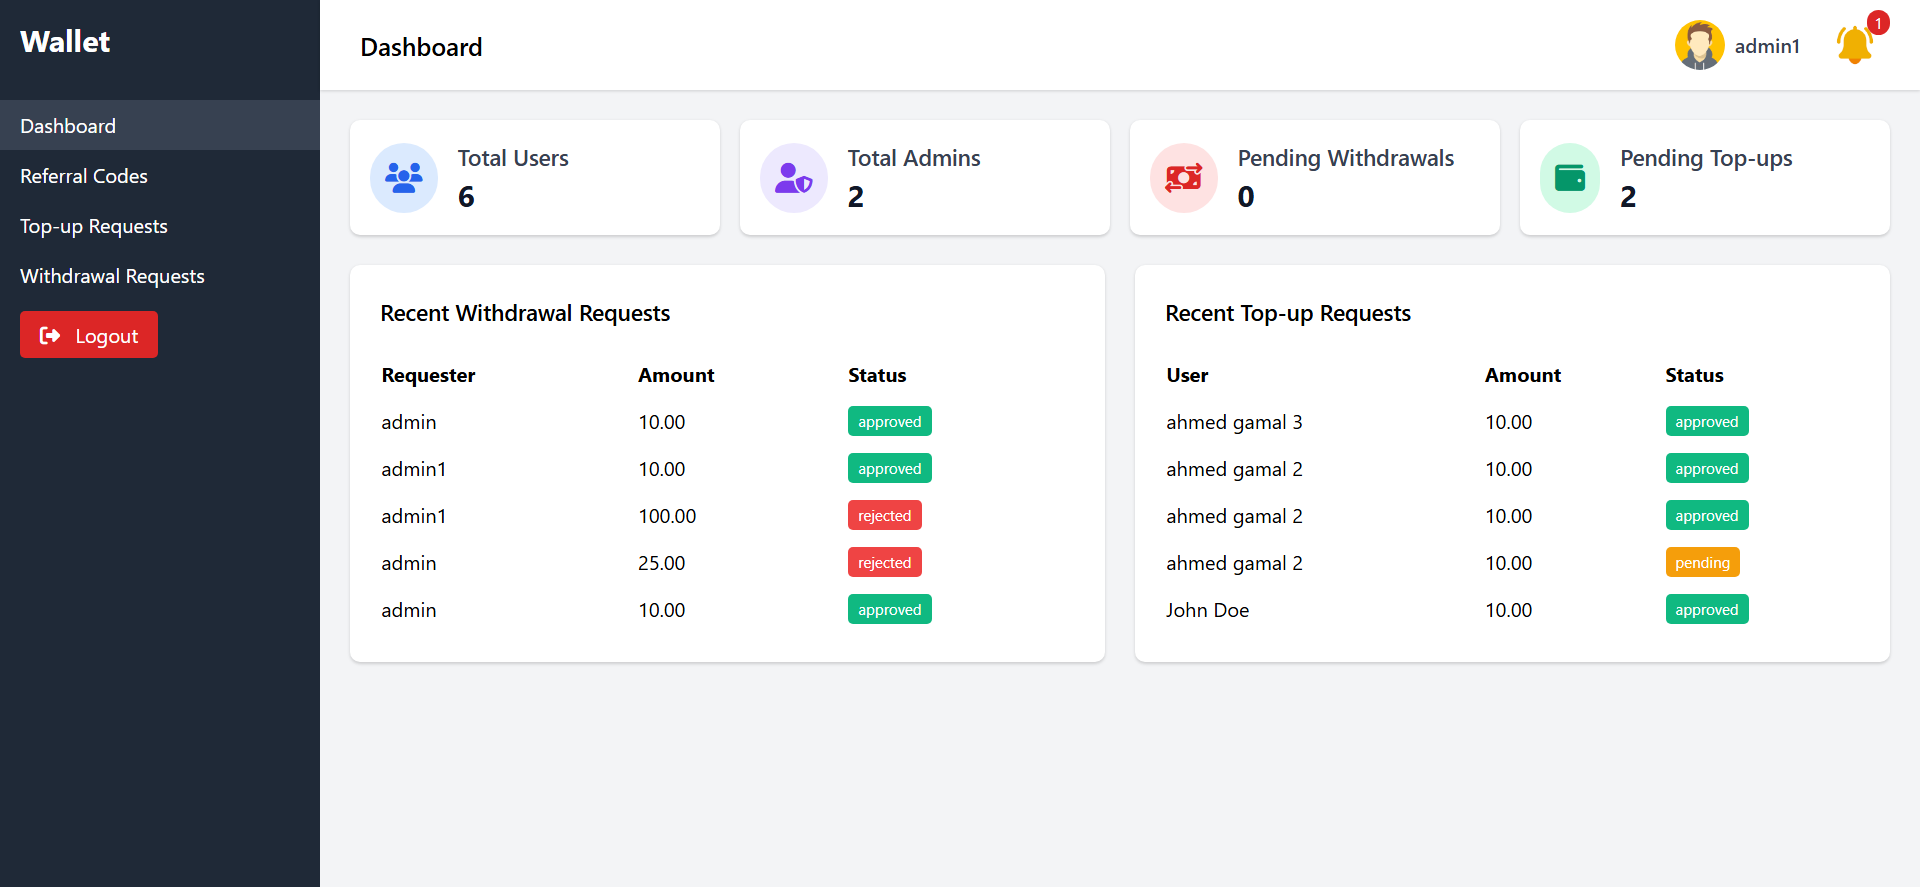
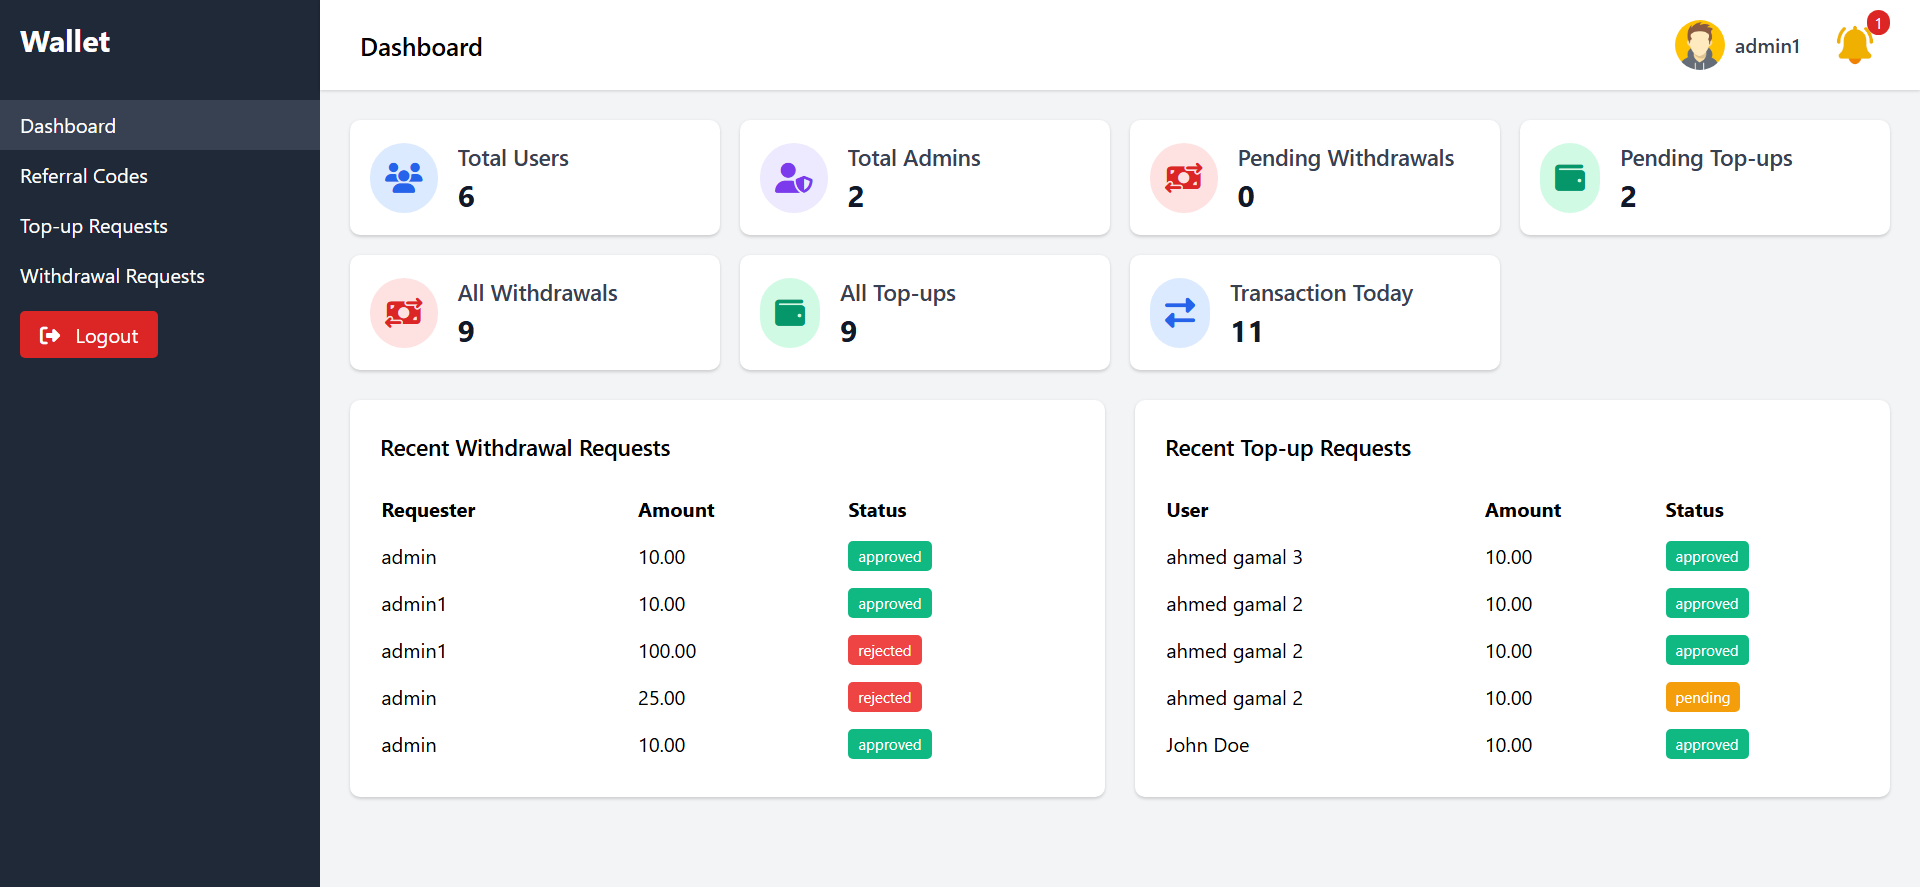
update dashboard

diff --git a/resources/views/admin/dashboard.blade.php b/resources/views/admin/dashboard.blade.php
@@ -86,6 +86,37 @@
             <p class="text-2xl font-bold text-gray-900">{{ $stats['pending_topups'] }}</p>
         </div>
     </div>
+
+    <div class="bg-white p-4 rounded-lg shadow flex items-center">
+        <div class="p-3 rounded-full bg-red-100 text-red-600 mr-4">
+            <i class="fa-solid fa-money-bill-transfer text-2xl"></i>
+        </div>
+        <div>
+            <h3 class="text-lg font-semibold text-gray-700">All Withdrawals</h3>
+            <p class="text-2xl font-bold text-gray-900">{{ $stats['withdrawals'] }}</p>
+        </div>
+    </div>
+
+    <!-- Pending Top-ups -->
+    <div class="bg-white p-4 rounded-lg shadow flex items-center">
+        <div class="p-3 rounded-full bg-green-100 text-green-600 mr-4">
+            <i class="fa-solid fa-wallet text-2xl"></i>
+        </div>
+        <div>
+            <h3 class="text-lg font-semibold text-gray-700">All Top-ups</h3>
+            <p class="text-2xl font-bold text-gray-900">{{ $stats['topups'] }}</p>
+        </div>
+    </div>
+
+    <div class="bg-white p-4 rounded-lg shadow flex items-center">
+        <div class="p-3 rounded-full bg-blue-100 text-blue-600 mr-4">
+            <i class="fa-solid fa-exchange-alt text-2xl"></i>
+        </div>
+        <div>
+            <h3 class="text-lg font-semibold text-gray-700">Transaction Today</h3>
+            <p class="text-2xl font-bold text-gray-900">{{ $stats['total_transactions_today'] }}</p>
+        </div>
+    </div>
 </div>
 
 

diff --git a/app/Http/Controllers/Admin/DashboardController.php b/app/Http/Controllers/Admin/DashboardController.php
@@ -22,6 +22,8 @@ class DashboardController extends Controller
             'total_admins' => Admin::count(),
             'pending_withdrawals' => WithdrawalRequest::where('status', 'pending')->count(),
             'pending_topups' => TopupRequest::where('status', 'pending')->count(),
+            'withdrawals' => TopupRequest::count(),
+            'topups' => TopupRequest::count(),
             'total_transactions_today' => Transaction::whereDate('created_at', today())->count(),
         ];
 
@@ -35,10 +37,7 @@ class DashboardController extends Controller
             ->take(5)
             ->get();
 
-        // Get notifications for the authenticated admin
-        $notifications = $admin->notifications()->latest()->take(10)->get();
-
-        return view('admin.dashboard', compact('stats', 'recentWithdrawals', 'recentTopups', 'notifications'));
+        return view('admin.dashboard', compact('stats', 'recentWithdrawals', 'recentTopups'));
     }
 
     public function markNotificationAsRead(Request $request, $id)

diff --git a/app/Services/PermissionService.php b/app/Services/PermissionService.php
@@ -8,13 +8,17 @@ use App\Models\Permission;
 class PermissionService
 {
     const PERMISSIONS = [
+        "can_create_withdrawals" => "Can Create withdrawal",
+        "can_view_withdrawals" => "Can View withdrawal",
         'can_accept_withdrawals' => 'Can accept withdrawal requests',
         'can_reject_withdrawals' => 'Can reject withdrawal requests',
+        'can_view_topups' => 'Can view top-up requests',
         'can_accept_topups' => 'Can accept top-up requests',
         'can_reject_topups' => 'Can reject top-up requests',
         'can_manage_admins' => 'Can manage admin accounts',
         'can_view_all_transactions' => 'Can view all transactions',
         'can_generate_referral_codes' => 'Can generate referral codes',
+        'can_view_referral_codes' => 'Can view referral codes',
     ];
 
     public function seedPermissions(): void

diff --git a/app/Services/WalletService.php b/app/Services/WalletService.php
@@ -29,10 +29,10 @@ class WalletService
                 throw new \Exception('Insufficient balance');
             }
 
-            // Hold the amount
+            // تعليق الاموال لحين قبولها من  الادمن
             $wallet->hold($amount, "Withdrawal request pending");
 
-            // Create the request
+            // عمل طلب سحب
             $request = $requester->withdrawalRequests()->create([
                 'amount' => $amount
             ]);

diff --git a/app/Models/User.php b/app/Models/User.php
@@ -54,10 +54,6 @@ class User extends Authenticatable
     {
         return $this->morphMany(ReferralCode::class, 'generator');
     }
-    public function generatedReferralCodes()
-    {
-        return $this->morphMany(ReferralCode::class, 'generator');
-    }
 
     public function referralUses()
     {

diff --git a/app/Models/Admin.php b/app/Models/Admin.php
@@ -64,7 +64,6 @@ class Admin extends Authenticatable
         return $this->morphMany(ReferralCode::class, 'generator');
     }
 
-    // Helper methods
     public function hasPermission(string $permission): bool
     {
         return $this->permissions()->where('name', $permission)->exists();
